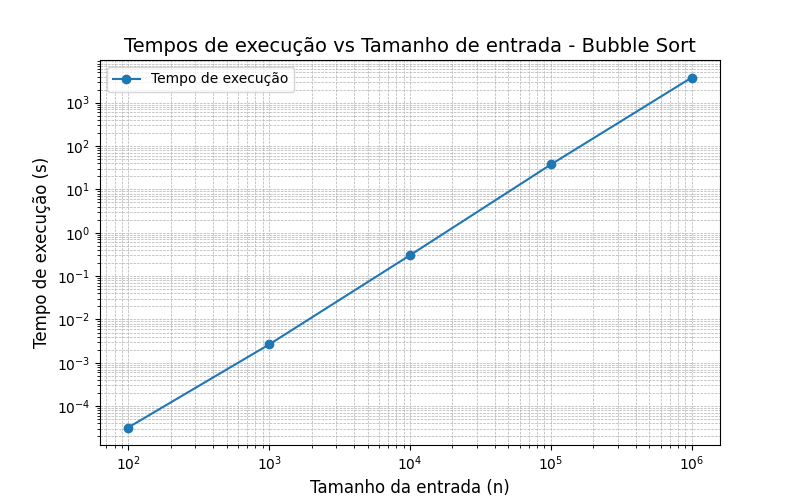
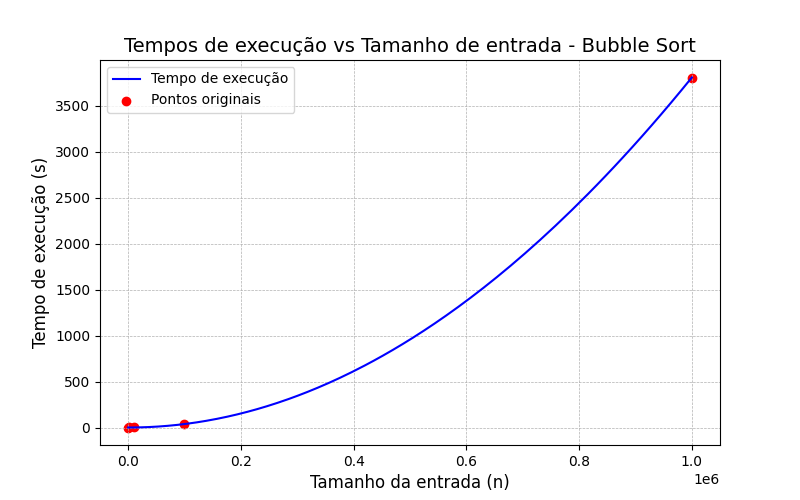
gráficos v2

Changed region(s): [[0.0312, 0.12, 0.9062, 0.99], [0.8438, 0.9, 0.9062, 0.99], [0.0625, 0.81, 0.0938, 0.84]]

diff --git a/bubble-sort/grafico.py b/bubble-sort/grafico.py
@@ -1,17 +1,31 @@
+import matplotlib
+matplotlib.use('TkAgg')
 import matplotlib.pyplot as plt
+from scipy.interpolate import make_interp_spline  # Para suavização
+import numpy as np
 
 # Medir tempos de execução para diferentes tamanhos de entrada
 entradas = [100, 1000, 10000, 100000, 1000000]
 tempos = [0.000032225, 0.00264575, 0.302856, 37.5406955, 3806.859645]
 
+# Converter para numpy arrays para manipulação
+entradas = np.array(entradas)
+tempos = np.array(tempos)
+
+# Criar uma interpolação spline
+x_novo = np.logspace(np.log10(entradas.min()), np.log10(entradas.max()), 500)
+spline = make_interp_spline(entradas, tempos)
+y_suave = spline(x_novo)
+
 # Criar o gráfico
 plt.figure(figsize=(8, 5))
-plt.plot(entradas, tempos, marker='o', label="Tempo de execução")
-plt.xscale("log")  # Escala logarítmica para o eixo X, se necessário
-plt.yscale("log")  # Escala logarítmica para o eixo Y
+plt.plot(x_novo, y_suave, label="Tempo de execução", color="blue")
+plt.scatter(entradas, tempos, color="red", label="Pontos originais")  # Mostrar os pontos reais
+plt.xscale("linear")  # Escala logarítmica para o eixo X
+plt.yscale("linear")  # Escala logarítmica para o eixo Y
 plt.title("Tempos de execução vs Tamanho de entrada - Bubble Sort", fontsize=14)
 plt.xlabel("Tamanho da entrada (n)", fontsize=12)
 plt.ylabel("Tempo de execução (s)", fontsize=12)
-plt.grid(True, which="both", linestyle="--", linewidth=0.5)  # Grade em escala logarítmica
+plt.grid(True, which="both", linestyle="--", linewidth=0.5)
 plt.legend()
 plt.show()

diff --git a/insertion-sort/grafico.py b/insertion-sort/grafico.py
@@ -1,17 +1,32 @@
+import matplotlib
+matplotlib.use('TkAgg')
 import matplotlib.pyplot as plt
+from scipy.interpolate import make_interp_spline  # Para suavização
+import numpy as np
 
 # Medir tempos de execução para diferentes tamanhos de entrada
 entradas = [100, 1000, 10000, 100000, 1000000]
 tempos = [0.000027, 0.000445, 0.0454315, 4.613546, 464.393]
 
+# Converter para numpy arrays para manipulação
+entradas = np.array(entradas)
+tempos = np.array(tempos)
+
+# Criar uma interpolação spline
+x_novo = np.logspace(np.log10(entradas.min()), np.log10(entradas.max()), 500)
+spline = make_interp_spline(entradas, tempos)
+y_suave = spline(x_novo)
+
 # Criar o gráfico
 plt.figure(figsize=(8, 5))
-plt.plot(entradas, tempos, marker='o', label="Tempo de execução")
-plt.xscale("log")  # Escala logarítmica para o eixo X, se necessário
-plt.yscale("log")  # Escala logarítmica para o eixo Y
+plt.plot(x_novo, y_suave, label="Tempo de execução", color="blue")
+plt.scatter(entradas, tempos, color="red", label="Pontos originais")  # Mostrar os pontos reais
+plt.xscale("linear")  # Escala logarítmica para o eixo X
+plt.yscale("linear")  # Escala logarítmica para o eixo Y
 plt.title("Tempos de execução vs Tamanho de entrada - Insertion Sort", fontsize=14)
 plt.xlabel("Tamanho da entrada (n)", fontsize=12)
 plt.ylabel("Tempo de execução (s)", fontsize=12)
-plt.grid(True, which="both", linestyle="--", linewidth=0.5)  # Grade em escala logarítmica
+plt.grid(True, which="both", linestyle="--", linewidth=0.5)
 plt.legend()
 plt.show()
+
